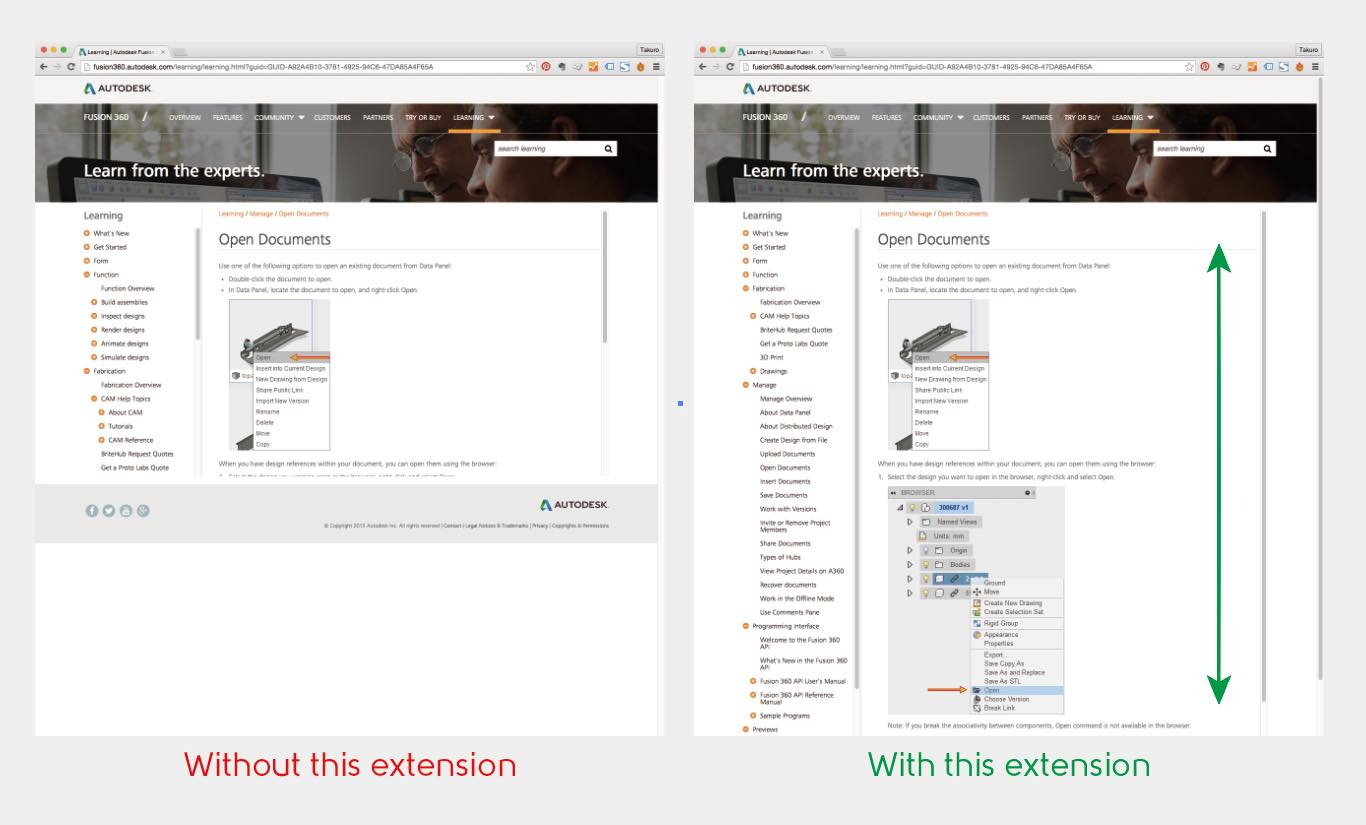
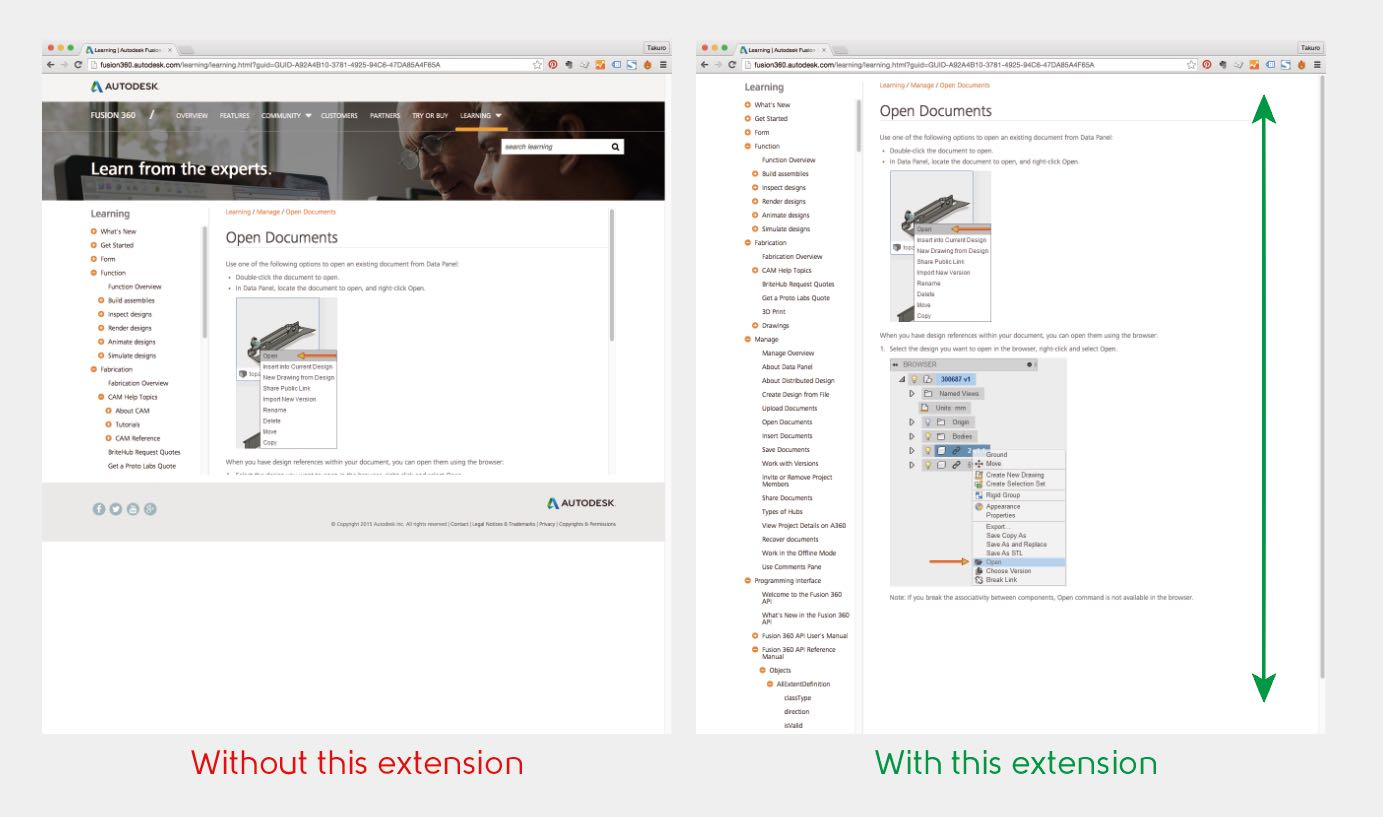
Hide top bar

diff --git a/src/embedded-script.js b/src/embedded-script.js
@@ -1,8 +1,14 @@
+function hideUnnecessaryRegion(){
+    $(".fullContainer.autodesk").hide();
+    $(".fullContainer.imgHolder").hide();
+    $("#sticky_navigation").hide();
+}
+
 function adjustContentSize() {
     $('.fusion-ref-expander-bottom-space').remove();
 
     var w_height = $(window).height();
-    var content_heght = w_height - 257;  // subtract header size
+    var content_heght = w_height;
     var $bottom_space = $("<div>");
     $bottom_space.addClass('fusion-ref-expander-bottom-space');
     $bottom_space.height(100);
@@ -25,6 +31,7 @@ function main() {
     console.log(location.href);
     if(location.href.indexOf('fusion360.autodesk.com/learning/learning.html') != -1) {
         console.log('This website is autodesk reference website.');
+        hideUnnecessaryRegion();
         adjustContentSize();
 
         $(window).resize(function(){
